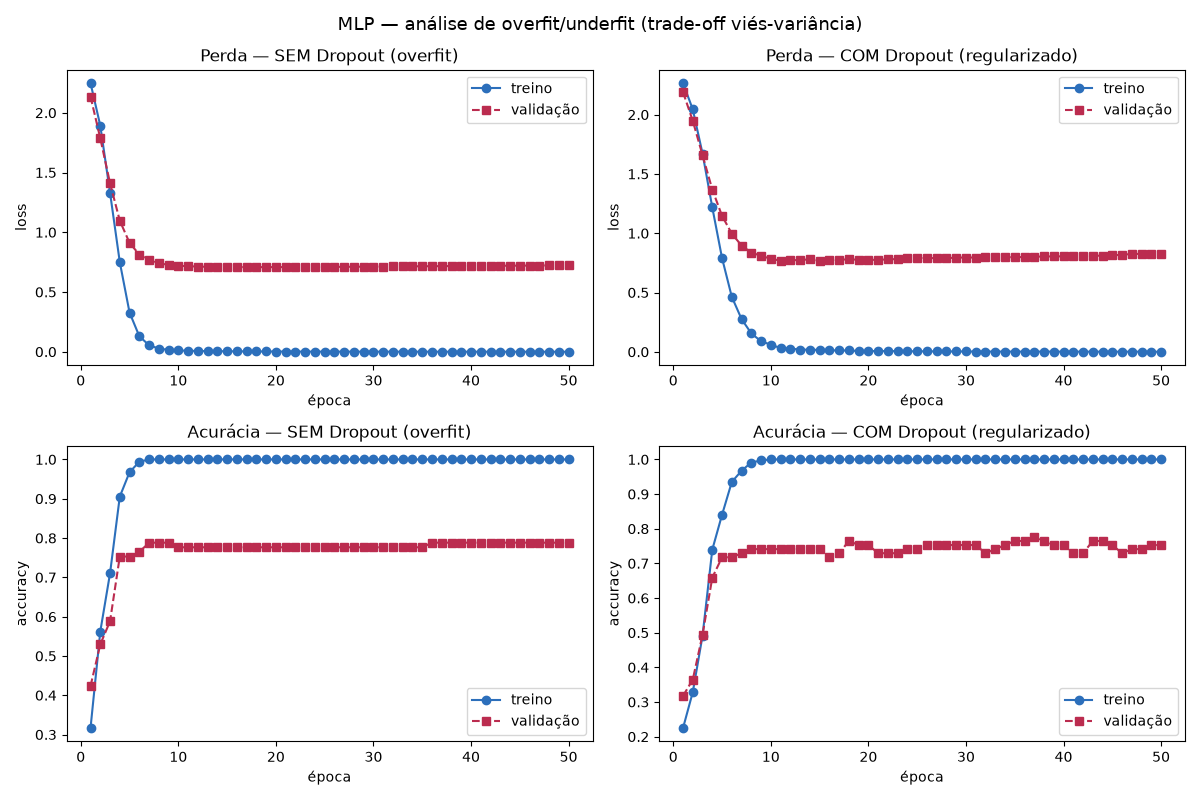
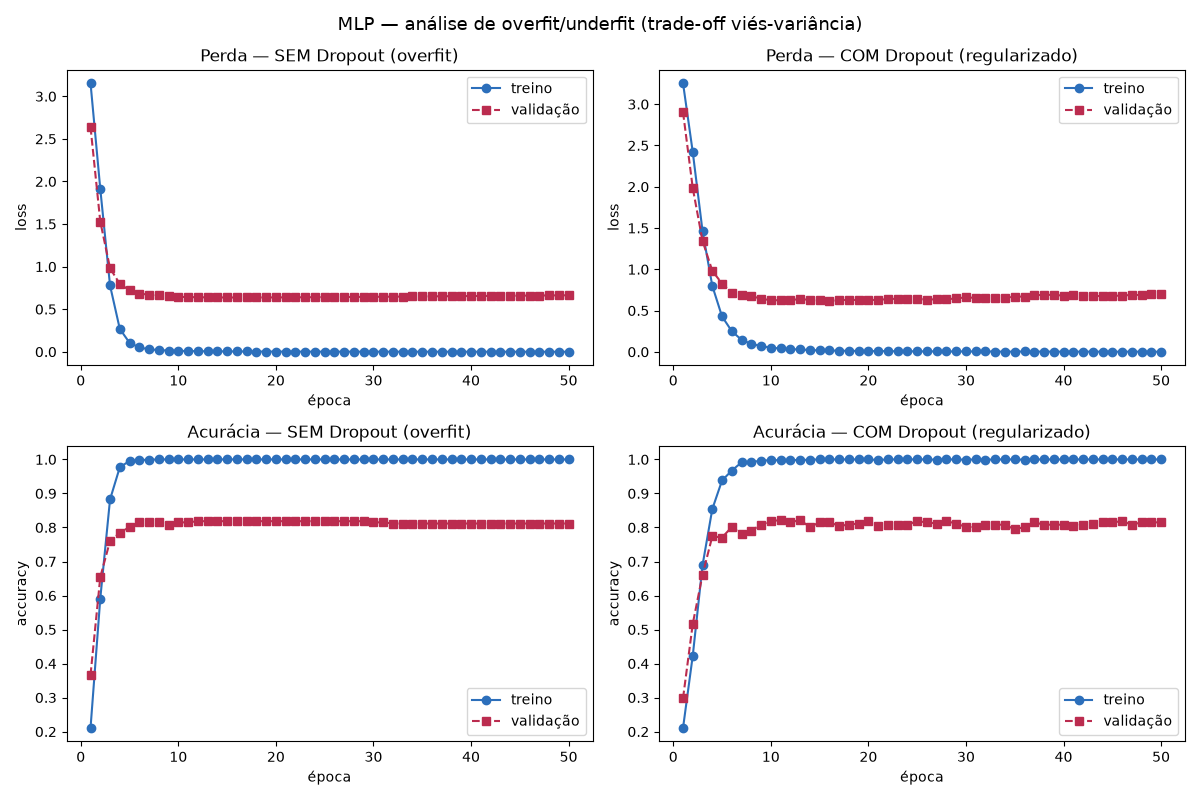
Fase 6: corrige rótulo fraco (classe_id, não topic_raw) e avalia 3 modelos vs gold
Bug: a pool de treino usava topic_raw (id BRUTO do BERTopic, 0-45) como rótulo
fraco. Esse espaço não casa com o gold humano (taxonomia 0-29) nem com o softmax
de 30 saídas — a MLP estourava (label 45 fora de [0,30)) e a métrica do NB vs
gold era inválida (espaços de rótulo distintos). Correção: rótulo fraco passa a
ser classe_id consolidado (0-29), no mesmo espaço do gold.

Também regenera os embeddings BERTimbau (cache estava com 979 docs; corpus tem
4394) e persiste classify_gold_preds.json p/ análise de confusão reproduzível.

Resultado (300 notícias gold, 26 classes presentes; pool 1821, janela 18m):
  modelo      gold_acc  gold_f1  kappa
  NB          0.400     0.359    0.354
  MLP         0.503     0.492    0.480   <- melhor no gold
  BERTimbau   0.473     0.469    0.451

Falha dominante (honesta): classe 10 Institucional/Gestão (n=57, catch-all) com
F1 0.36/0.22/0.13 — espalha p/ Precatórios, Conciliação, Equidade. Classes com
suporte 2-3 (Litigância, Conflitos fundiários) têm F1~0. Overfit da MLP claro
(treino acc 1.0 / val ~0.81); Dropout não ajuda em TF-IDF esparso, L2 forte
leva a underfit.

diff --git a/src/classify.py b/src/classify.py
@@ -11,15 +11,17 @@ técnicas do curso:
     C. BERTimbau        — embeddings BERT-pt (mean-pooling) + LogReg    (transformer)
 
 Protocolo de avaliação (sem vazamento):
-- **Rótulo fraco** = `topic_raw` do BERTopic (alta confiança; exclui outliers -1).
+- **Rótulo fraco** = `classe_id` consolidado (taxonomia de 30 classes, 0-29),
+  derivado do BERTopic e no MESMO espaço de rótulos do gold humano. Os outliers
+  do BERTopic (topic_raw == -1) são excluídos da pool.
 - O **gold humano** (`reports/gold_labels.csv`) é REMOVIDO do conjunto de treino,
-  pois 162/173 documentos do gold também têm rótulo fraco — treinar neles
-  inflaria a métrica externa.
+  pois grande parte dos documentos do gold também tem rótulo fraco — treinar
+  neles inflaria a métrica externa.
 - **Regime interno** (aprende o rótulo fraco): split estratificado
-  treino/validação/teste sobre a "pool" (529 docs com rótulo fraco e fora do
-  gold). Mede se o modelo aprende a taxonomia a partir de features independentes.
+  treino/validação/teste sobre a "pool" (docs com rótulo fraco e fora do gold).
+  Mede se o modelo aprende a taxonomia a partir de features independentes.
 - **Regime externo** (vs gold humano): cada modelo é treinado na pool INTEIRA e
-  prediz os 173 documentos do gold; reporta accuracy, F1-macro, Cohen's kappa e
+  prediz os 300 documentos do gold; reporta accuracy, F1-macro, Cohen's kappa e
   matriz de confusão contra a anotação humana. Esta é a validação de cabeçalho.
 
 Análise de overfit/underfit (peça central do Módulo 2): a MLP é treinada em duas
@@ -88,10 +90,15 @@ def set_seeds() -> None:
 def load_data() -> tuple[pd.DataFrame, pd.DataFrame, set[int], int]:
     """Retorna (pool, gold_df, gold_ids, n_indefinido).
 
-    pool: docs com rótulo fraco (topic_raw != -1) e FORA do gold.
+    pool: docs com rótulo fraco e FORA do gold. O rótulo fraco `y` é o
+    `classe_id` consolidado (taxonomia de 30 classes, 0-29) — NÃO o `topic_raw`
+    bruto do BERTopic (0-45+), que vive em outro espaço de rótulos e não casa
+    com o gold humano nem com o softmax de 30 saídas. Os outliers do BERTopic
+    (topic_raw == -1) seguem excluídos da pool.
     gold_df: docs do gold com rótulo humano inteiro (exclui 'indefinido').
     """
-    dt = pd.read_parquet(PROC / "doc_topics.parquet")[["id", "topic_raw"]]
+    dt = pd.read_parquet(PROC / "doc_topics.parquet")[
+        ["id", "topic_raw", "classe_id"]]
     txt = pd.read_parquet(INTERIM)[["id", "titulo", "corpo_texto", "corpo_norm"]]
     df = dt.merge(txt, on="id")
     # Features TF-IDF: título + corpo normalizado (espaço lexical).
@@ -108,9 +115,10 @@ def load_data() -> tuple[pd.DataFrame, pd.DataFrame, set[int], int]:
     gold_ids = set(gold_ok["id"])
     gold_df = gold_ok.merge(df, on="id")
 
-    weak = df[df["topic_raw"] != -1].copy()
+    weak = df[df["topic_raw"] != -1].copy()  # exclui outliers do BERTopic
     pool = weak[~weak["id"].isin(gold_ids)].copy()
-    pool = pool.rename(columns={"topic_raw": "y"})
+    # Rótulo fraco = classe consolidada (0-29), no MESMO espaço do gold humano.
+    pool = pool.rename(columns={"classe_id": "y"})
     print(f"[clf] pool de treino (rótulo fraco, fora do gold): {len(pool)} docs "
           f"| gold humano: {len(gold_df)} (+{n_indef} 'indefinido' excluídos)")
     return pool, gold_df, gold_ids, n_indef
@@ -544,6 +552,16 @@ def main() -> None:
         preds["BERTimbau"] = results["bertimbau"]["_gold_pred"]
     plot_confusions(gold_df["gold"].to_numpy(), preds)
 
+    # Persiste as predições do gold (artefato reproduzível p/ análise de confusão).
+    gold_pred_dump = {
+        "gold_ids": gold_df["id"].astype(int).tolist(),
+        "gold_true": gold_df["gold"].astype(int).tolist(),
+        "preds": {name: [int(p) for p in pr] for name, pr in preds.items()},
+    }
+    with (PROC / "classify_gold_preds.json").open("w", encoding="utf-8") as fh:
+        json.dump(gold_pred_dump, fh, ensure_ascii=False, indent=2)
+    print(f"[clf] predições do gold -> {PROC / 'classify_gold_preds.json'}")
+
     # Tabela-resumo
     print("\n[clf] ===== COMPARAÇÃO DOS MODELOS =====")
     header = f"{'modelo':<12} {'int_acc':>8} {'int_f1':>8} {'gold_acc':>9} {'gold_f1':>8} {'kappa':>7}"
@@ -564,7 +582,8 @@ def main() -> None:
             "split": {"treino": int(len(tr)), "val": int(len(va)),
                       "teste": int(len(te))},
             "seed": SEED,
-            "leakage_note": "gold removido do treino (162/173 também eram rótulo fraco)",
+            "leakage_note": "gold removido do treino; rótulo fraco = classe_id consolidado (0-29)",
+            "weak_label": "classe_id (taxonomia consolidada 30 classes)",
         },
         "models": {k: {kk: vv for kk, vv in v.items() if not kk.startswith("_")}
                    for k, v in results.items()},